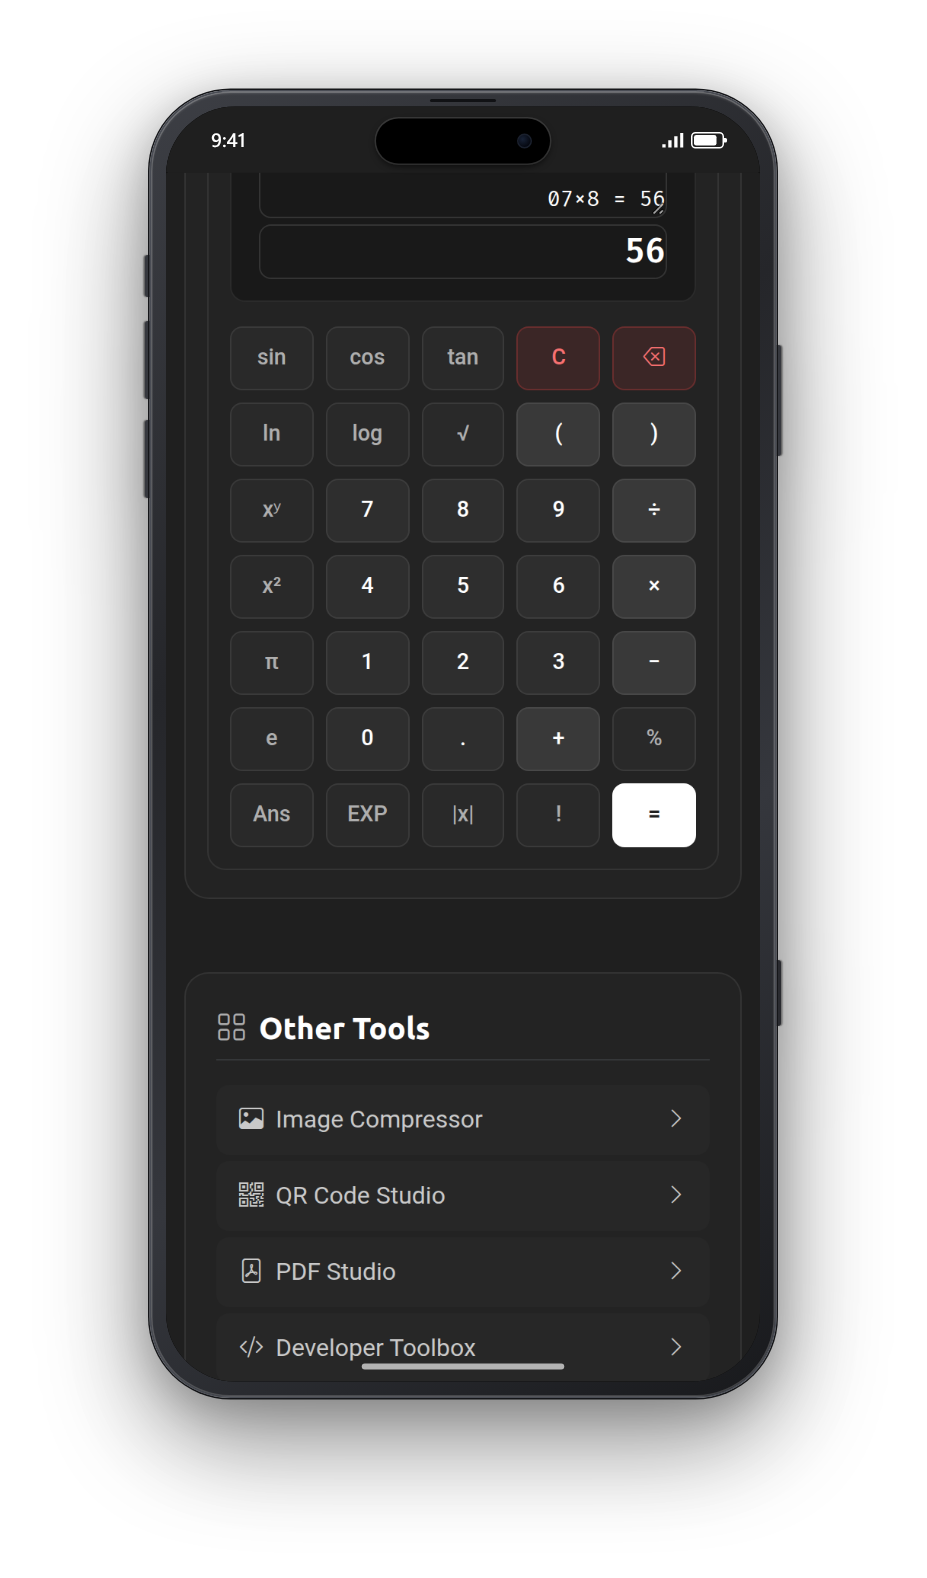
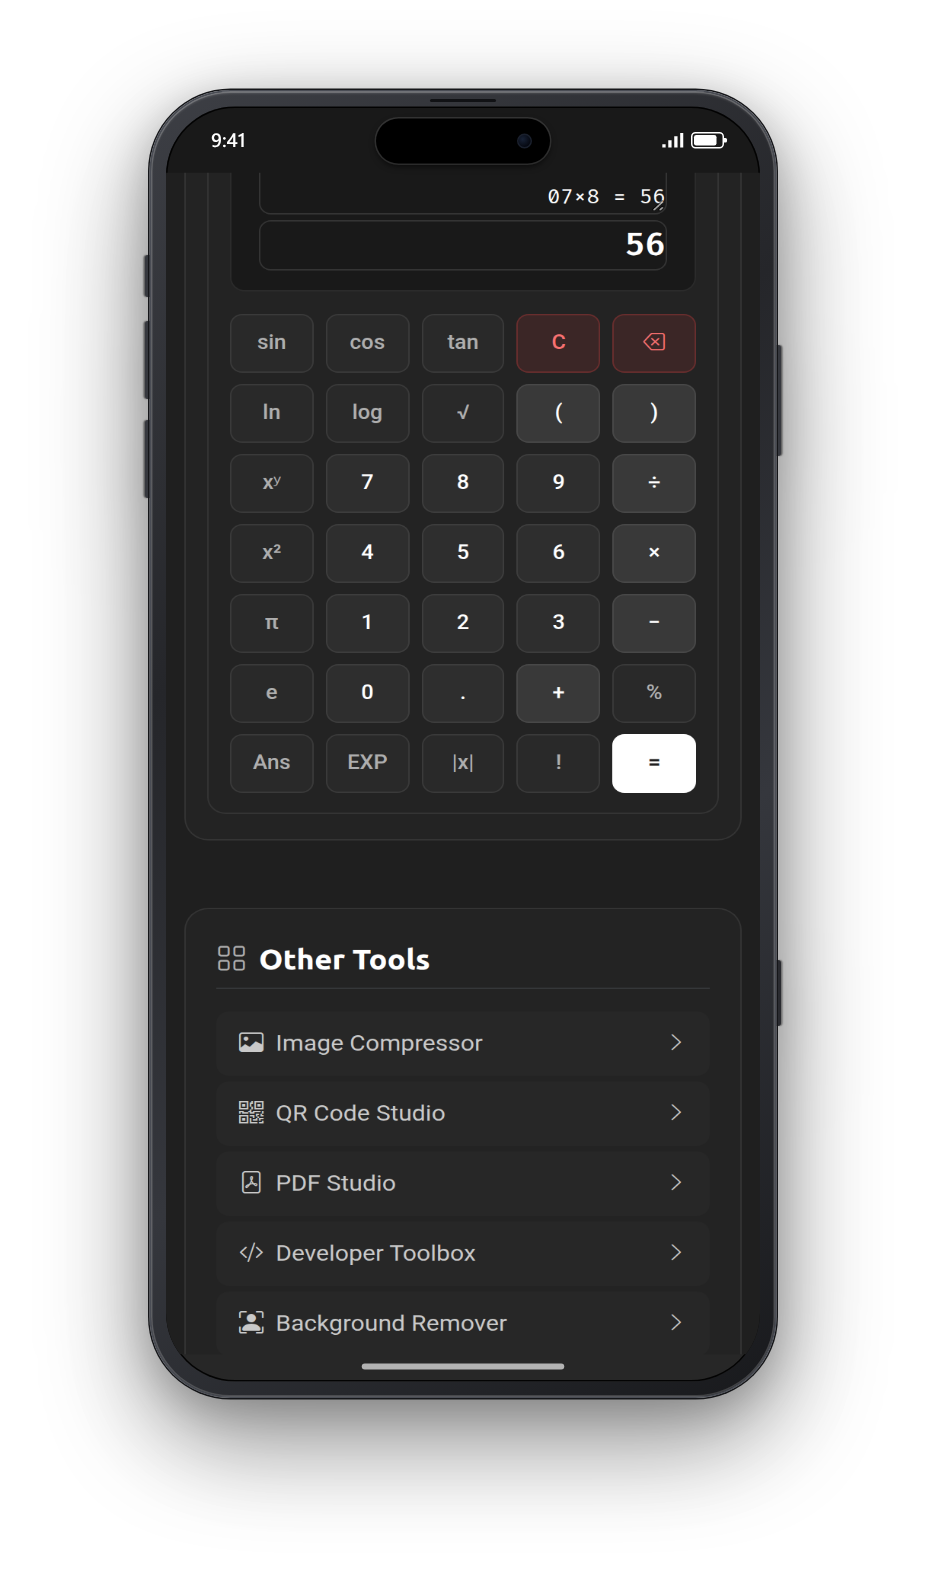
docs: strip QA automation section and elevate mobile mockups with safe area padding

diff --git a/README.md b/README.md
@@ -125,33 +125,6 @@ Open [http://localhost:8000](http://localhost:8000) in your browser.
 
 ---
 
-## Testing & QA Automation
-
-Automated testing and QA verification are powered by the system's `qa-toolkit`:
-
-### 1. Playwright Test Suite
-End-to-end smoke verification covering dashboard utility catalog and individual tool page accessibility:
-
-```bash
-cd /home/widifirmaan/Projects/qa-toolkit
-npx playwright test tests/playwright/aiotools.spec.js
-```
-
-### 2. Cypress E2E Verification
-Cross-browser regression testing on DOM structure and production stability:
-
-```bash
-cd /home/widifirmaan/Projects/qa-toolkit
-npx cypress run --spec cypress/e2e/aiotools.cy.js
-```
-
-### 3. QA Execution Summary
-- **Playwright**: 2 tests passed (Dashboard 23+ Tools Catalog & Password Generator DOM Mount)
-- **Cypress**: 2 specs passed (Dashboard DOM Mount & Tool Accessibility)
-- **Status**: ✅ All automated tests verified and passing
-
----
-
 ## Author
 
 Made with ❤ by **Widi Firmansyah** / [widifirmaan.web.id](https://widifirmaan.web.id)
